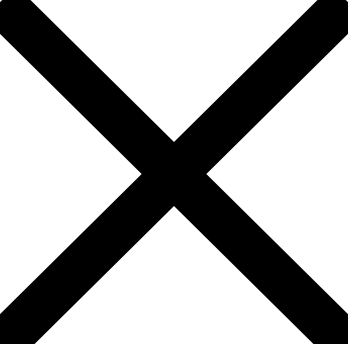
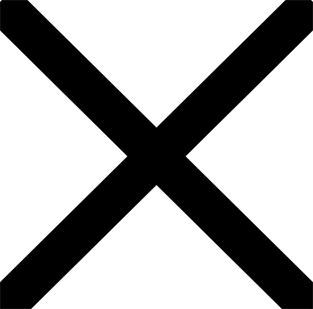
Arreglar errores gráficos
Ahora se muestran correctamente las jugadas en el tablero, las X y O se
dibujan acorde al tablero y su dimension.

Ahora los tableros guardados no se mantienen al inicio de cada partida.

Changed region(s): [[0.0863, 0.9903, 0.115, 1.0]]

diff --git a/sabadito.py b/sabadito.py
@@ -636,20 +636,18 @@ def dibujarCasillas(Dimension,largoTab,altoTab,numeroDeTabs,screen):
 
 	return casillas
 
-def dibujarFicha(superficie, rect, screen, posX,posY,mult,turno,verde_feo,X,Y,oscuro,Dimension,numeroDeTabs):
+def dibujarFicha(superficie, rect, screen, posX,posY,mult,turno,verde_feo,X,Y,oscuro,Dimension,numeroDeTabs,fila,casilla):
 	dibujarCositos(verde_feo,screen,X,Y,oscuro,Dimension,numeroDeTabs-1)
 	if turno == 1:
-		imagen = pygame.image.load("recursos/X.png")
-		imagen = pygame.transform.scale(imagen, (300//Dimension,299//Dimension))
+		imagen = pygame.image.load("recursos/X{}.png".format(Dimension))
 
 	elif turno == 2:
-		imagen = pygame.image.load("recursos/O.png")
-		imagen = pygame.transform.scale(imagen, (300//Dimension, 299//Dimension))
-	
+		imagen = pygame.image.load("recursos/O{}.png".format(Dimension))
+			
 	pos = superficie.get_rect()
 	q = 6*mult
 	p = 5*mult
-	superficie.blit(imagen,(rect[0]-(348//Dimension)-10,rect[1]-(344//Dimension)-10))
+	superficie.blit(imagen,(11//Dimension + (348//Dimension)*casilla,11//Dimension + (344//Dimension)*fila))
 	screen.blit(superficie,(posX+5*p-5*q,posY-5*p+5*q))
 	
 	return superficie
@@ -725,7 +723,8 @@ def rancc(screen):
 	f=open("nombrepuntaje.txt","r+")
 	s=f.readlines()
 	for i in range(len(s)):
-		dibujarTexto(s[i], font, screen, 90, 100+40*i, (255,255,255))
+		if i<10:
+			dibujarTexto(s[i], font, screen, 90, 100+40*i, (255,255,255))
 
 	return volveralmenu, salir2
 
@@ -737,7 +736,8 @@ def guardarpuntajes(jugador1,jugador2):
 	elif jugador2.puntos<jugador1.puntos:
 		f.writelines(str(jugador1.nombre)+"   "+str(jugador1.puntos)+'\n')
 	elif jugador1.puntos==jugador2.puntos:
-		f.writelines(str(jugador2.nombre)+"   "+str(jugador1.nombre)+str(jugador2.puntos)+"Empate"+'\n')
+		f.writelines(str(jugador1.nombre)+"   "+str(jugador1.puntos)+'\n')
+		f.writelines(str(jugador2.nombre)+"   "+str(jugador2.puntos)+'\n')
 	f.close()
 
 
@@ -876,7 +876,7 @@ def main():
 										z , y, x = numTableroActual, fil, casilla
 										if esValida(superTablero, z, y, x):
 											superTablero = reflejarEnTablero(superTablero,z,y,x,jugadorActual.turno)
-											tableros[numTableroActual] = dibujarFicha(tableroActual,casillas[fil][casilla],screen,pos[0][0],pos[0][1],numTableroActual,jugadorActual.turno,verde_feo,X,Y,oscuro,Dimension,numeroDeTabs)
+											tableros[numTableroActual] = dibujarFicha(tableroActual,casillas[fil][casilla],screen,pos[0][0],pos[0][1],numTableroActual,jugadorActual.turno,verde_feo,X,Y,oscuro,Dimension,numeroDeTabs,y,x)
 											lineasHechas = lineaHecha(superTablero, z,y,x,jugadorActual.turno,jugadorActual)
 											letrajuego(screen,jugador1.nombre,jugador2.nombre,"lineas: "+str(jugador1.lineas),"lineas: "+str(jugador2.lineas),"Puntos: "+str(jugador1.puntos),"Puntos: "+str(jugador2.puntos),Dimension,X,Y)
 											if lineasHechas > 0:
@@ -980,7 +980,7 @@ def main():
 		if empezarJuego:
 			
 			OtraPartida = True
-
+			tablerosGuardados = []
 			superTablero = variables(Dimension)
 			numeroDeTabs = Dimension
 			tableros, casillas, pos = dibujarCositos(verde_feo,screen,X,Y,oscuro,Dimension,Dimension)
